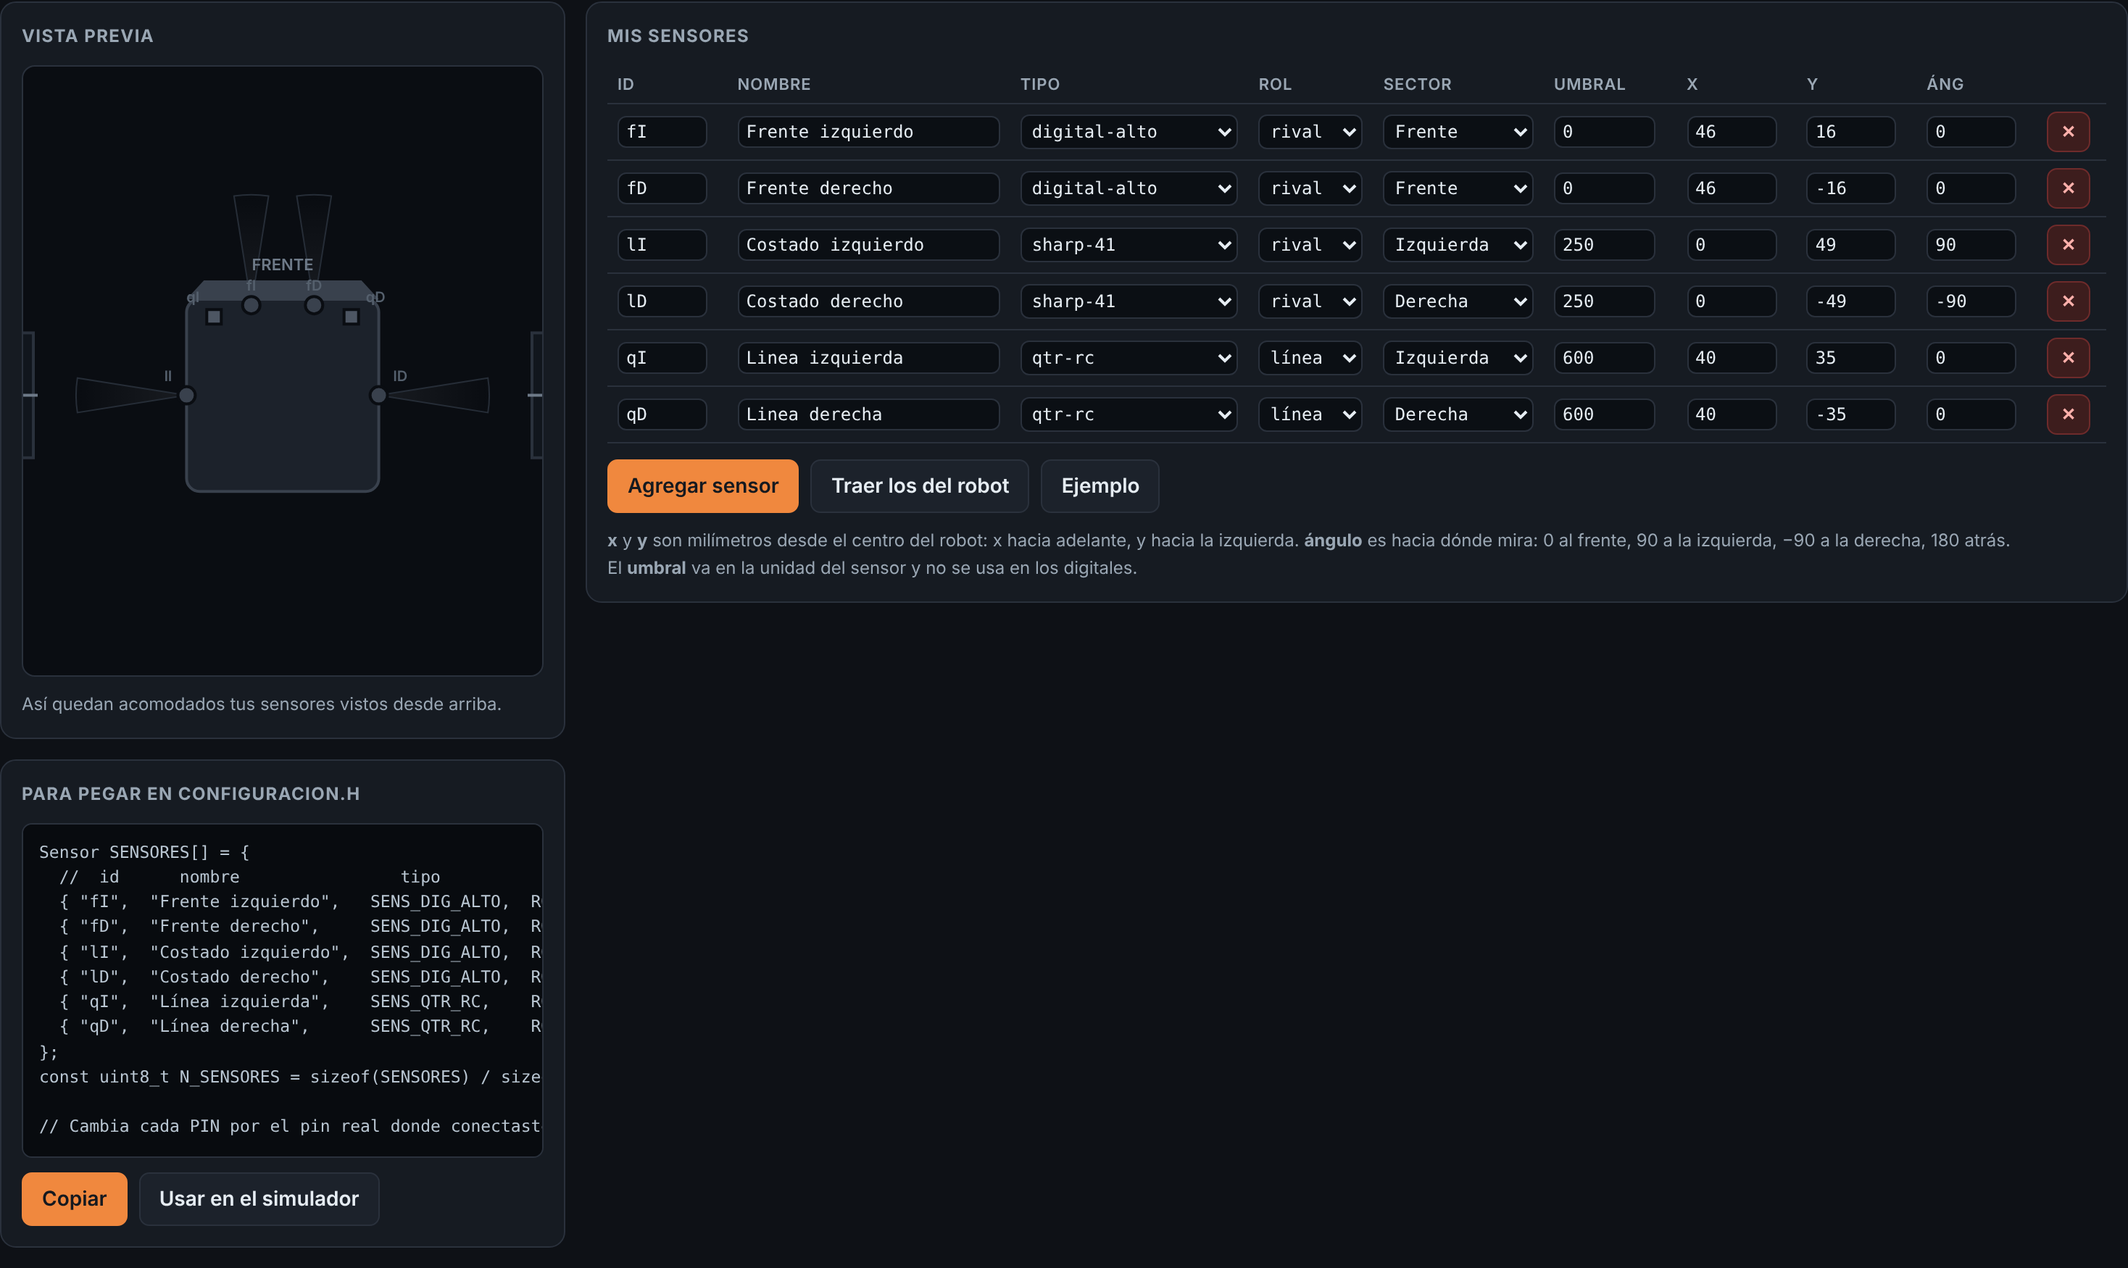
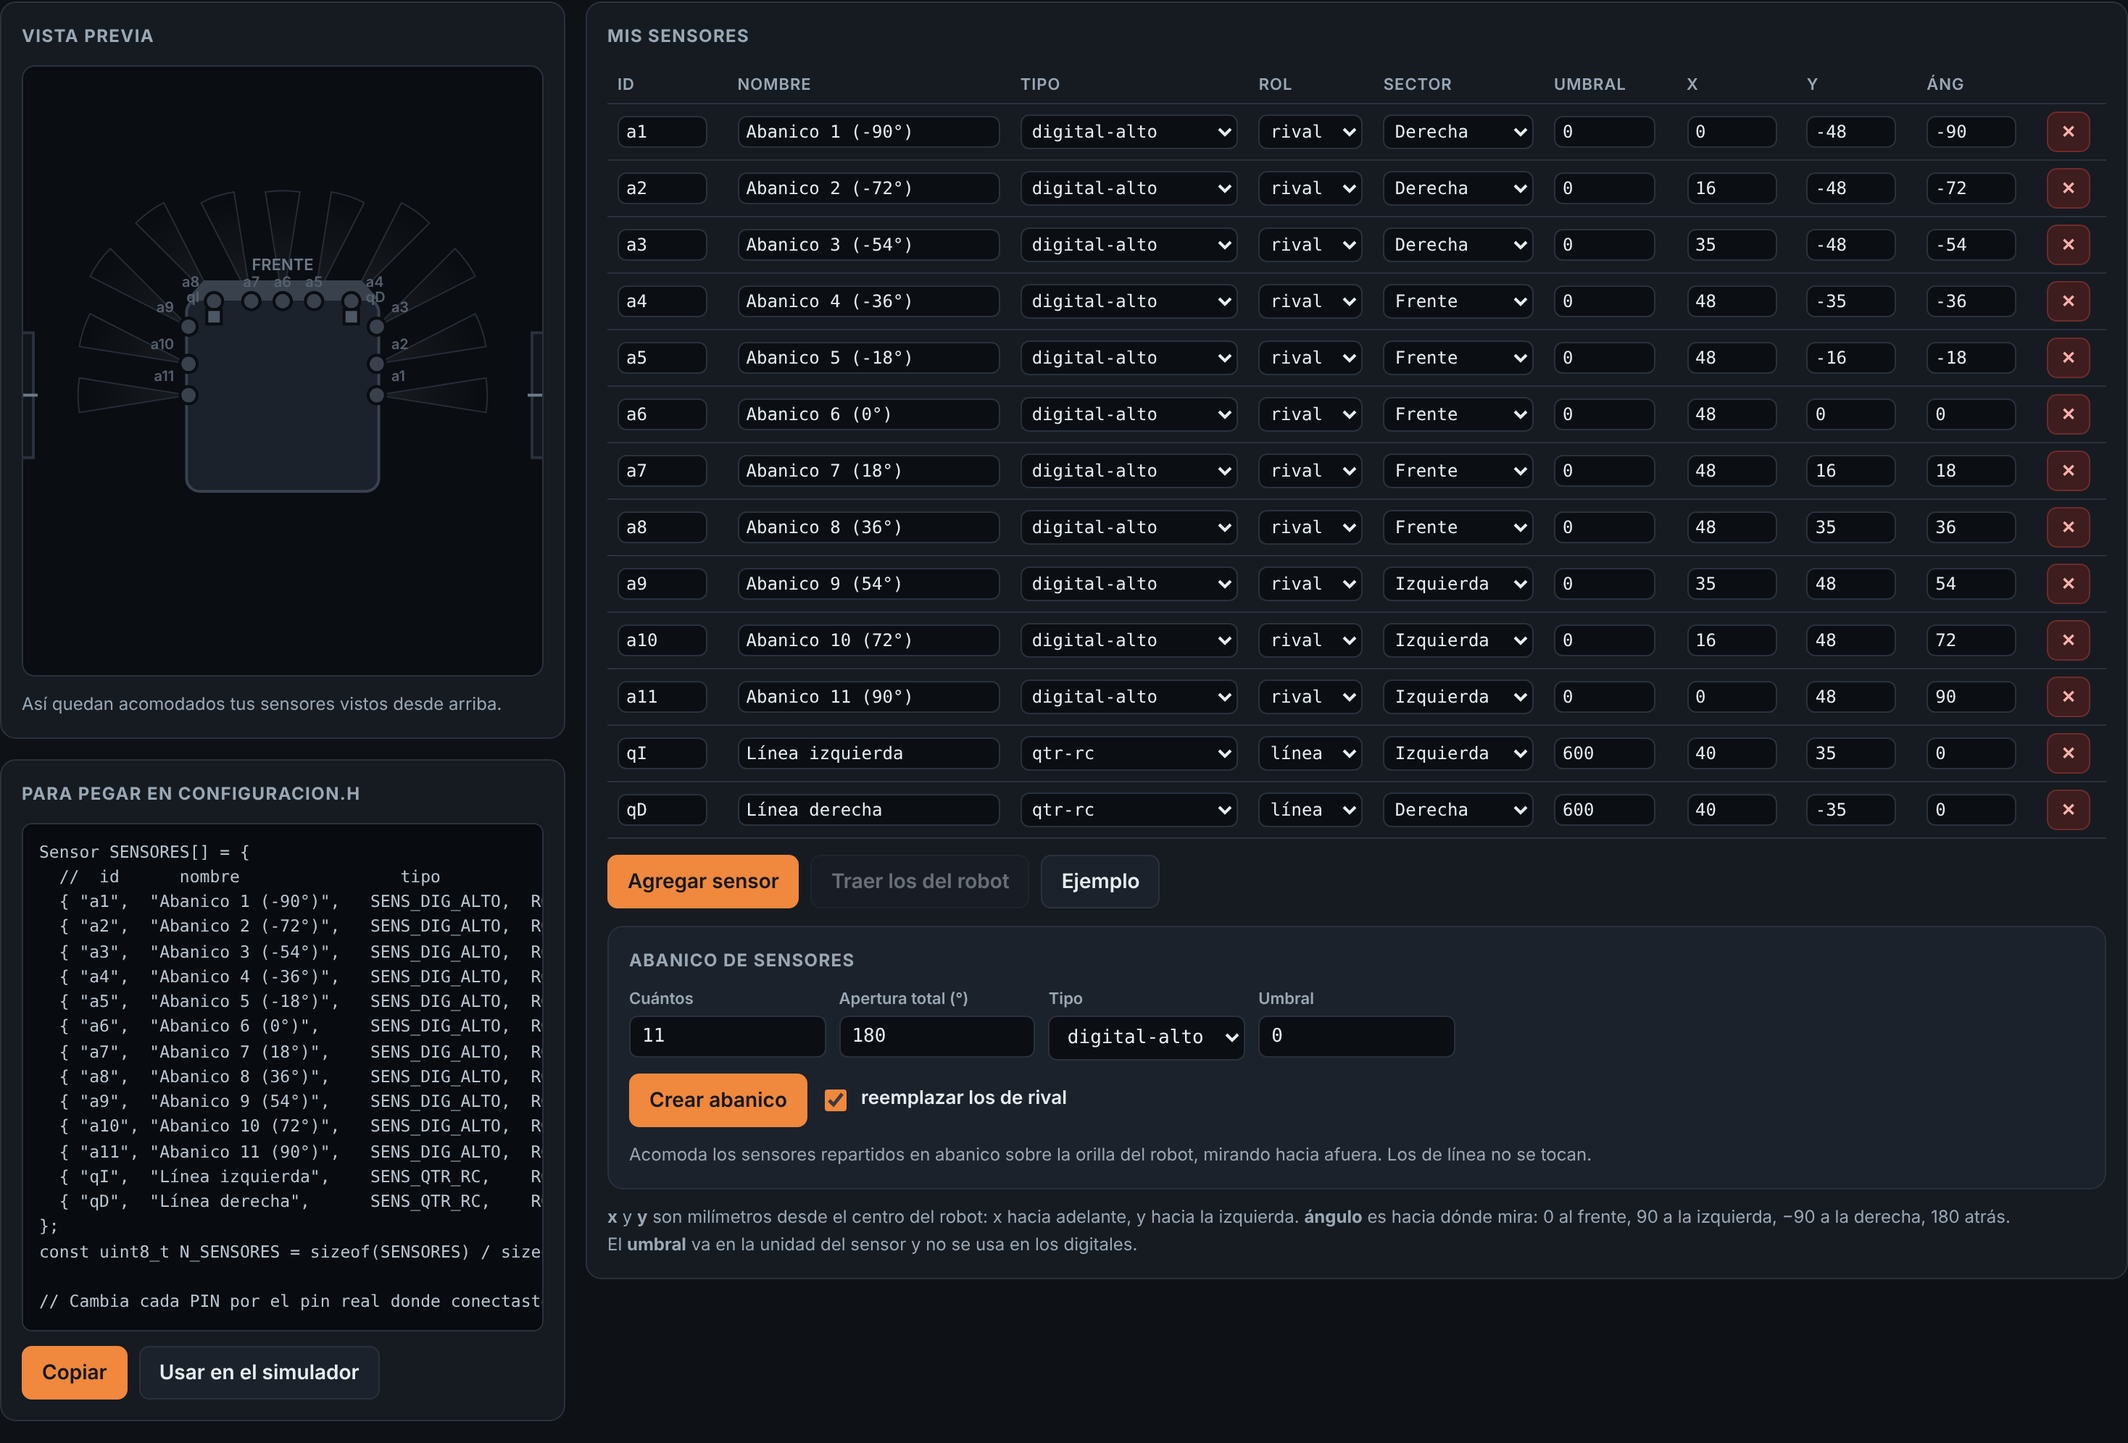
Arregla la telemetria con muchos sensores y acomoda los sensores nuevos
Firmware: la linea de datos no cabia en el buffer de salida del puerto
(64 bytes en casi todas las placas), asi que con mas de 3 o 4 sensores la
condicion que evitaba bloquear nunca se cumplia y no se mandaba nada.
Ahora la linea se arma en memoria y se suelta por pedazos, sin bloquear.
Probado contra un puerto con buffer de 63 bytes: 40 Hz con 12 sensores
sin perder lineas.

Plataforma:
- Al agregar un sensor se coloca en un angulo libre sobre la orilla del
  robot, en vez de encimarse todos en el mismo punto.
- Boton de abanico: reparte N sensores en la apertura que elijas.
- Los sensores que estan en tu lista pero no en el robot dicen "sin dato",
  y un aviso avisa cuando las dos listas no coinciden.

diff --git a/plataforma/index.html b/plataforma/index.html
@@ -93,7 +93,7 @@
         <p class="nota">El dibujo se arma solo con la posición y el ángulo que le pusiste a cada sensor en <code>configuracion.h</code>. La flecha naranja es hacia dónde cree el robot que está el rival.</p>
       </div>
       <div class="caja">
-        <h2>Sensores</h2>
+        <h2>Sensores <span class="pill av" id="avisoDif" style="display:none"></span></h2>
         <div id="tablaSensores"><p class="vacio">Conecta el robot para ver sus sensores.</p></div>
       </div>
       <div class="caja">
@@ -291,6 +291,20 @@
           <button id="btnAdd" class="pri">Agregar sensor</button>
           <button id="btnDelRobot" disabled>Traer los del robot</button>
           <button id="btnDefault">Ejemplo</button>
+        </div>
+        <div class="caja" style="margin:12px 0 0;background:var(--panel2)">
+          <h2 style="margin-bottom:9px">Abanico de sensores</h2>
+          <div class="campos" style="margin-bottom:9px">
+            <div><label>Cuántos</label><input type="number" id="abN" value="7" min="2" max="24"></div>
+            <div><label>Apertura total (°)</label><input type="number" id="abAp" value="180" min="10" max="360" step="10"></div>
+            <div><label>Tipo</label><select id="abTipo"></select></div>
+            <div><label>Umbral</label><input type="number" id="abUm" value="0"></div>
+          </div>
+          <div class="fila">
+            <button id="btnAbanico" class="pri">Crear abanico</button>
+            <label class="sw"><input type="checkbox" id="abBorrar" checked> reemplazar los de rival</label>
+          </div>
+          <p class="nota">Acomoda los sensores repartidos en abanico sobre la orilla del robot, mirando hacia afuera. Los de línea no se tocan.</p>
         </div>
         <p class="nota">
           <b>x</b> y <b>y</b> son milímetros desde el centro del robot: x hacia adelante, y hacia la izquierda.
@@ -919,7 +933,17 @@ function armaTablaSensores() {
   $$("[data-gr]").forEach(c => c.onchange = armaLeyenda);
 }
 
+function revisaDiferencia() {
+  const el = $("#avisoDif");
+  if (!el) return;
+  if (info && sensores.length !== info.n) {
+    el.style.display = "";
+    el.textContent = `tu lista tiene ${sensores.length} y el robot ${info.n}: súbele el firmware`;
+  } else el.style.display = "none";
+}
+
 function pintaVivo() {
+  revisaDiferencia();
   $("#vStart").textContent = V.start ? "GO (1)" : "parado (0)";
   $("#vStart").style.color = V.start ? "var(--ok)" : "var(--txt2)";
   $("#vKill").textContent = V.kill ? "ok (1)" : "CORTADO (0)";
@@ -940,6 +964,12 @@ function pintaVivo() {
     if (!led) return;
     led.className = "led" + (V.det[i] ? (s.rol ? " lin" : " on") : "");
     const u = SIM.UNIDAD[s.tipo];
+    if (V.val[i] === undefined || V.val[i] === null) {
+      v.textContent = "sin dato"; v.style.color = "var(--txt3)";
+      d.textContent = "—"; led.className = "led";
+      return;
+    }
+    v.style.color = "";
     v.textContent = (s.tipo === T.DIG_ALTO || s.tipo === T.DIG_BAJO) ? (V.val[i] ? "alto" : "bajo")
                   : V.val[i] + (u ? " " + u : "");
     d.textContent = SIM.daDistancia(s.tipo)
@@ -1180,9 +1210,47 @@ function trasEditar() {
   V.det = sensores.map(() => false);
   reset(); redibujaTodo();
 }
+/* pone el sensor sobre la orilla del robot, mirando hacia donde dice el angulo */
+const LADO_MM = 98;
+function enLaOrilla(angGrados) {
+  const a = angGrados * Math.PI/180, h = LADO_MM/2 - 1;
+  const dx = Math.cos(a), dy = Math.sin(a);
+  const t = Math.min(Math.abs(dx) < 1e-6 ? 1e9 : h/Math.abs(dx),
+                     Math.abs(dy) < 1e-6 ? 1e9 : h/Math.abs(dy));
+  return { x: Math.round(t*dx), y: Math.round(t*dy) };
+}
+const sectorDe = a => { const n = ((a + 180) % 360 + 360) % 360 - 180;
+  return Math.abs(n) <= 45 ? 0 : (n > 45 && n <= 135) ? 1 : (n < -45 && n >= -135) ? 2 : 3; };
+
 $("#btnAdd").onclick = () => {
-  sensores.push({ id:"s" + (sensores.length+1), nombre:"Sensor " + (sensores.length+1),
-                  tipo:T.DIG_ALTO, rol:0, sector:0, umbral:0, x:46, y:0, ang:0 });
+  // busca un angulo libre para que no se encimen
+  const usados = sensores.filter(s => s.rol === 0).map(s => s.ang);
+  const prefer = [0,30,-30,60,-60,90,-90,15,-15,45,-45,120,-120,150,-150,180];
+  const ang = prefer.find(a => !usados.includes(a)) ?? 0;
+  const p = enLaOrilla(ang);
+  const n = sensores.length + 1;
+  sensores.push({ id:"s"+n, nombre:"Sensor "+n, tipo:T.DIG_ALTO, rol:0,
+                  sector:sectorDe(ang), umbral:0, x:p.x, y:p.y, ang });
+  armaEditor(); trasEditar();
+};
+
+SIM.NOMBRE_TIPO.forEach((n,i) => $("#abTipo").add(new Option(n,i)));
+$("#abTipo").value = String(T.DIG_ALTO);
+$("#btnAbanico").onclick = () => {
+  const N = Math.max(2, Math.min(24, Number($("#abN").value)));
+  const ap = Math.max(10, Math.min(360, Number($("#abAp").value)));
+  const tipo = Number($("#abTipo").value), um = Number($("#abUm").value);
+  const linea = sensores.filter(s => s.rol === 1);
+  const viejos = $("#abBorrar").checked ? [] : sensores.filter(s => s.rol === 0);
+  const nuevos = [];
+  const paso = N > 1 ? ap/(N-1) : 0;
+  for (let i = 0; i < N; i++) {
+    const ang = Math.round(ap === 360 ? (i*360/N) - 180 : (i*paso) - ap/2);
+    const p = enLaOrilla(ang);
+    nuevos.push({ id:"a"+(i+1), nombre:"Abanico "+(i+1)+" ("+ang+"°)", tipo, rol:0,
+                  sector:sectorDe(ang), umbral:um, x:p.x, y:p.y, ang });
+  }
+  sensores = [...viejos, ...nuevos, ...linea];
   armaEditor(); trasEditar();
 };
 $("#btnDefault").onclick = () => { sensores = SIM.SENSORES_DEF.map(s => ({ ...s })); armaEditor(); trasEditar(); };

diff --git a/plataforma/src/plantilla.html b/plataforma/src/plantilla.html
@@ -93,7 +93,7 @@
         <p class="nota">El dibujo se arma solo con la posición y el ángulo que le pusiste a cada sensor en <code>configuracion.h</code>. La flecha naranja es hacia dónde cree el robot que está el rival.</p>
       </div>
       <div class="caja">
-        <h2>Sensores</h2>
+        <h2>Sensores <span class="pill av" id="avisoDif" style="display:none"></span></h2>
         <div id="tablaSensores"><p class="vacio">Conecta el robot para ver sus sensores.</p></div>
       </div>
       <div class="caja">
@@ -291,6 +291,20 @@
           <button id="btnAdd" class="pri">Agregar sensor</button>
           <button id="btnDelRobot" disabled>Traer los del robot</button>
           <button id="btnDefault">Ejemplo</button>
+        </div>
+        <div class="caja" style="margin:12px 0 0;background:var(--panel2)">
+          <h2 style="margin-bottom:9px">Abanico de sensores</h2>
+          <div class="campos" style="margin-bottom:9px">
+            <div><label>Cuántos</label><input type="number" id="abN" value="7" min="2" max="24"></div>
+            <div><label>Apertura total (°)</label><input type="number" id="abAp" value="180" min="10" max="360" step="10"></div>
+            <div><label>Tipo</label><select id="abTipo"></select></div>
+            <div><label>Umbral</label><input type="number" id="abUm" value="0"></div>
+          </div>
+          <div class="fila">
+            <button id="btnAbanico" class="pri">Crear abanico</button>
+            <label class="sw"><input type="checkbox" id="abBorrar" checked> reemplazar los de rival</label>
+          </div>
+          <p class="nota">Acomoda los sensores repartidos en abanico sobre la orilla del robot, mirando hacia afuera. Los de línea no se tocan.</p>
         </div>
         <p class="nota">
           <b>x</b> y <b>y</b> son milímetros desde el centro del robot: x hacia adelante, y hacia la izquierda.
@@ -528,7 +542,17 @@ function armaTablaSensores() {
   $$("[data-gr]").forEach(c => c.onchange = armaLeyenda);
 }
 
+function revisaDiferencia() {
+  const el = $("#avisoDif");
+  if (!el) return;
+  if (info && sensores.length !== info.n) {
+    el.style.display = "";
+    el.textContent = `tu lista tiene ${sensores.length} y el robot ${info.n}: súbele el firmware`;
+  } else el.style.display = "none";
+}
+
 function pintaVivo() {
+  revisaDiferencia();
   $("#vStart").textContent = V.start ? "GO (1)" : "parado (0)";
   $("#vStart").style.color = V.start ? "var(--ok)" : "var(--txt2)";
   $("#vKill").textContent = V.kill ? "ok (1)" : "CORTADO (0)";
@@ -549,6 +573,12 @@ function pintaVivo() {
     if (!led) return;
     led.className = "led" + (V.det[i] ? (s.rol ? " lin" : " on") : "");
     const u = SIM.UNIDAD[s.tipo];
+    if (V.val[i] === undefined || V.val[i] === null) {
+      v.textContent = "sin dato"; v.style.color = "var(--txt3)";
+      d.textContent = "—"; led.className = "led";
+      return;
+    }
+    v.style.color = "";
     v.textContent = (s.tipo === T.DIG_ALTO || s.tipo === T.DIG_BAJO) ? (V.val[i] ? "alto" : "bajo")
                   : V.val[i] + (u ? " " + u : "");
     d.textContent = SIM.daDistancia(s.tipo)
@@ -789,9 +819,47 @@ function trasEditar() {
   V.det = sensores.map(() => false);
   reset(); redibujaTodo();
 }
+/* pone el sensor sobre la orilla del robot, mirando hacia donde dice el angulo */
+const LADO_MM = 98;
+function enLaOrilla(angGrados) {
+  const a = angGrados * Math.PI/180, h = LADO_MM/2 - 1;
+  const dx = Math.cos(a), dy = Math.sin(a);
+  const t = Math.min(Math.abs(dx) < 1e-6 ? 1e9 : h/Math.abs(dx),
+                     Math.abs(dy) < 1e-6 ? 1e9 : h/Math.abs(dy));
+  return { x: Math.round(t*dx), y: Math.round(t*dy) };
+}
+const sectorDe = a => { const n = ((a + 180) % 360 + 360) % 360 - 180;
+  return Math.abs(n) <= 45 ? 0 : (n > 45 && n <= 135) ? 1 : (n < -45 && n >= -135) ? 2 : 3; };
+
 $("#btnAdd").onclick = () => {
-  sensores.push({ id:"s" + (sensores.length+1), nombre:"Sensor " + (sensores.length+1),
-                  tipo:T.DIG_ALTO, rol:0, sector:0, umbral:0, x:46, y:0, ang:0 });
+  // busca un angulo libre para que no se encimen
+  const usados = sensores.filter(s => s.rol === 0).map(s => s.ang);
+  const prefer = [0,30,-30,60,-60,90,-90,15,-15,45,-45,120,-120,150,-150,180];
+  const ang = prefer.find(a => !usados.includes(a)) ?? 0;
+  const p = enLaOrilla(ang);
+  const n = sensores.length + 1;
+  sensores.push({ id:"s"+n, nombre:"Sensor "+n, tipo:T.DIG_ALTO, rol:0,
+                  sector:sectorDe(ang), umbral:0, x:p.x, y:p.y, ang });
+  armaEditor(); trasEditar();
+};
+
+SIM.NOMBRE_TIPO.forEach((n,i) => $("#abTipo").add(new Option(n,i)));
+$("#abTipo").value = String(T.DIG_ALTO);
+$("#btnAbanico").onclick = () => {
+  const N = Math.max(2, Math.min(24, Number($("#abN").value)));
+  const ap = Math.max(10, Math.min(360, Number($("#abAp").value)));
+  const tipo = Number($("#abTipo").value), um = Number($("#abUm").value);
+  const linea = sensores.filter(s => s.rol === 1);
+  const viejos = $("#abBorrar").checked ? [] : sensores.filter(s => s.rol === 0);
+  const nuevos = [];
+  const paso = N > 1 ? ap/(N-1) : 0;
+  for (let i = 0; i < N; i++) {
+    const ang = Math.round(ap === 360 ? (i*360/N) - 180 : (i*paso) - ap/2);
+    const p = enLaOrilla(ang);
+    nuevos.push({ id:"a"+(i+1), nombre:"Abanico "+(i+1)+" ("+ang+"°)", tipo, rol:0,
+                  sector:sectorDe(ang), umbral:um, x:p.x, y:p.y, ang });
+  }
+  sensores = [...viejos, ...nuevos, ...linea];
   armaEditor(); trasEditar();
 };
 $("#btnDefault").onclick = () => { sensores = SIM.SENSORES_DEF.map(s => ({ ...s })); armaEditor(); trasEditar(); };

diff --git a/firmware/minisumo/telemetria.h b/firmware/minisumo/telemetria.h
@@ -35,9 +35,10 @@ extern bool arrancadorOk();
 extern bool killOk();
 extern uint8_t leerDip();
 
+inline void telemetriaBombea();
 inline void evento(const char* t) {
   if (!MS_PUERTO) return;
-  MS_PUERTO.print(F("E,")); MS_PUERTO.println(t);
+  MS_PUERTO.print(F("E,")); MS_PUERTO.println(t);   // los eventos son cortos y poco frecuentes
 }
 
 inline void mandaInfo() {
@@ -81,24 +82,58 @@ inline void mandaInfo() {
   MS_PUERTO.print(F(",BUSCAR_GIRANDO="));   MS_PUERTO.println(BUSCAR_GIRANDO ? 1 : 0);
 }
 
+/* ---------------------------------------------------------------------
+   Transmisor que NO bloquea
+   ---------------------------------------------------------------------
+   El buffer de salida del puerto es chico (64 bytes en casi todas las
+   placas) y una linea de datos con muchos sensores no cabe completa.
+   Por eso la linea se arma en memoria y se va soltando a pedazos, tantos
+   bytes como quepan en cada vuelta. Asi nunca se detiene el combate,
+   aunque tengas 16 sensores.
+   --------------------------------------------------------------------- */
+#ifndef TX_MAX
+  #define TX_MAX 240
+#endif
+static char     txBuf[TX_MAX];
+static uint16_t txLen = 0, txPos = 0;
+
+inline void txChar(char c) { if (txLen < TX_MAX) txBuf[txLen++] = c; }
+inline void txStr(const char* s) { while (*s) txChar(*s++); }
+inline void txInt(long v) {
+  if (v < 0) { txChar('-'); v = -v; }
+  char d[12]; uint8_t n = 0;
+  do { d[n++] = (char)('0' + (v % 10)); v /= 10; } while (v);
+  while (n) txChar(d[--n]);
+}
+
+/* suelta lo que quepa; llamalo seguido */
+inline void telemetriaBombea() {
+  if (txPos >= txLen) return;
+  if (!MS_PUERTO) { txPos = txLen = 0; return; }
+  int libre = MS_PUERTO.availableForWrite();
+  while (libre > 0 && txPos < txLen) { MS_PUERTO.write(txBuf[txPos++]); libre--; }
+  if (txPos >= txLen) { txPos = txLen = 0; }
+}
+
 inline void telemetria(bool forzar = false) {
+  telemetriaBombea();
+  if (txLen) return;                      // todavia hay linea pendiente
   static uint32_t tUlt = 0;
   uint16_t periodo = peleando ? MS_ENTRE_DATOS : (MS_ENTRE_DATOS * 2);
   if (!forzar && millis() - tUlt < periodo) return;
   if (!MS_PUERTO) return;
-  // si no cabe la linea completa, mejor no mandar nada que trabar el robot
-  if (MS_PUERTO.availableForWrite() < (int)(40 + N_SENSORES * 7)) return;
   tUlt = millis();
-  MS_PUERTO.print(F("D,")); MS_PUERTO.print(millis());
-  MS_PUERTO.print(','); MS_PUERTO.print(estado);
-  MS_PUERTO.print(','); MS_PUERTO.print(modo);
-  MS_PUERTO.print(','); MS_PUERTO.print(arrancadorOk() ? 1 : 0);
-  MS_PUERTO.print(','); MS_PUERTO.print(killOk() ? 1 : 0);
-  MS_PUERTO.print(','); MS_PUERTO.print(leerDip());
-  MS_PUERTO.print(','); MS_PUERTO.print(velIzq);
-  MS_PUERTO.print(','); MS_PUERTO.print(velDer);
-  for (uint8_t i = 0; i < N_SENSORES; i++) { MS_PUERTO.print(','); MS_PUERTO.print(valor[i]); }
-  MS_PUERTO.println();
+  txStr("D,");  txInt(millis());
+  txChar(','); txInt(estado);
+  txChar(','); txInt(modo);
+  txChar(','); txInt(arrancadorOk() ? 1 : 0);
+  txChar(','); txInt(killOk() ? 1 : 0);
+  txChar(','); txInt(leerDip());
+  txChar(','); txInt(velIzq);
+  txChar(','); txInt(velDer);
+  for (uint8_t i = 0; i < N_SENSORES; i++) { txChar(','); txInt(valor[i]); }
+  txChar('\n');
+  telemetriaBombea();
 }
 
 #endif /* TELEMETRIA_H */

diff --git a/README.md b/README.md
@@ -180,6 +180,11 @@ Qué es cada columna:
 Puedes poner los que quieras: dos, seis, diez. El programa trabaja por sectores
 y no por sensores sueltos, así que la estrategia no cambia ni una línea.
 
+Si vas a usar muchos sensores al frente, el botón **Abanico** de la pestaña
+*Mis sensores* te los acomoda repartidos sobre la orilla del robot: le dices
+cuántos y qué apertura total quieres (por ejemplo 11 sensores en 180°) y
+calcula las posiciones y los ángulos de cada uno.
+
 **Las posiciones y los ángulos no son decoración.** Con ellos el robot calcula
 hacia dónde está el rival y corrige el rumbo mientras lo embiste. Mide tu robot
 con una regla y pon los números reales.
@@ -428,6 +433,7 @@ también sirve para competir tal cual.
 | En ESP32 los motores vibran o no arrancan | el driver no soporta 20 kHz | baja `MS_PWM_FREQ` a 5000 en `configuracion.h` |
 | El robot se sale del dohyo | el umbral de línea está mal, o `T_RETROCESO` es muy corto | recalibra la línea y sube el tiempo |
 | En Arduino Uno no compila por falta de memoria | demasiados sensores con nombres largos | acorta los nombres |
+| Agregaste sensores en la plataforma y no salen en vivo | esos sensores están en tu lista pero no en el robot | pega el bloque nuevo en `configuracion.h` y vuelve a subir el firmware |
 
 ---
 
